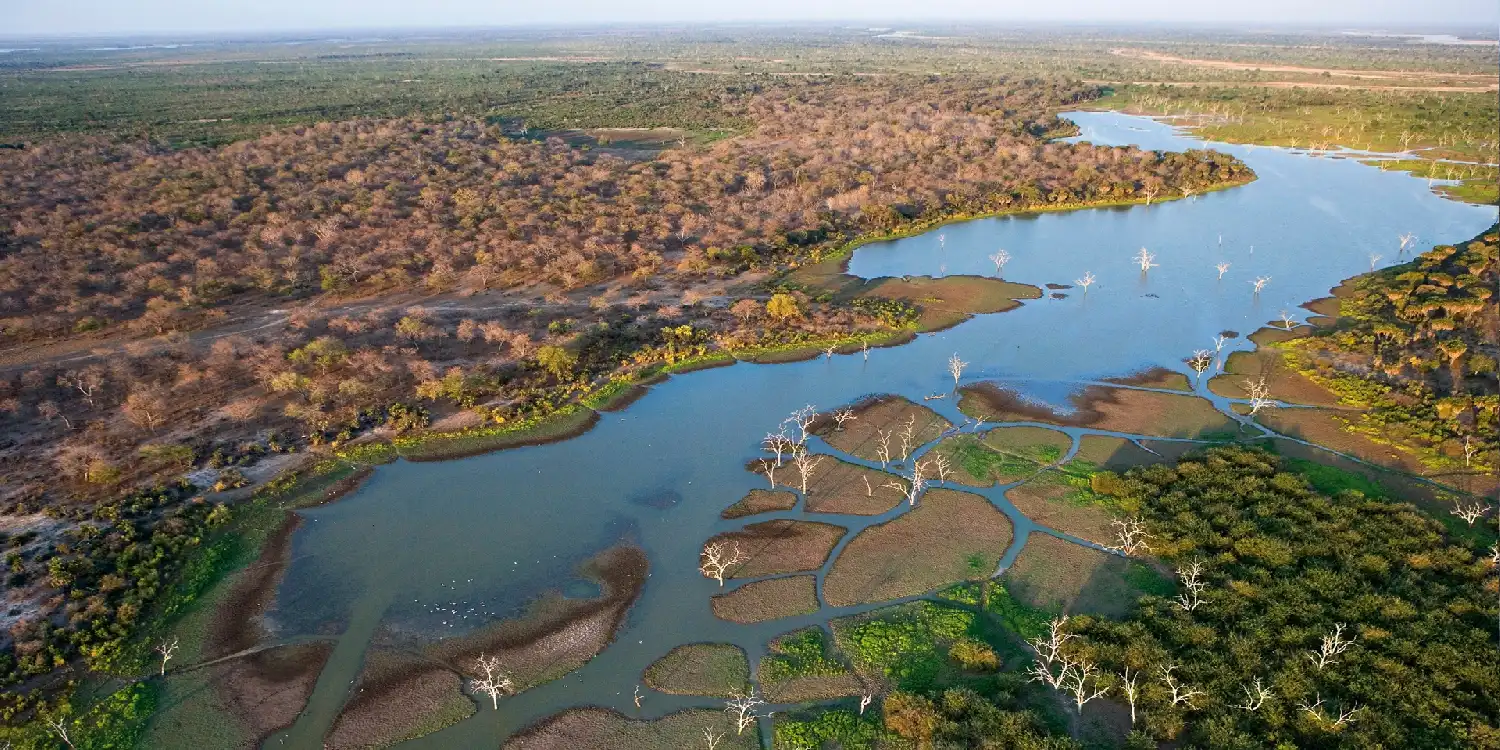
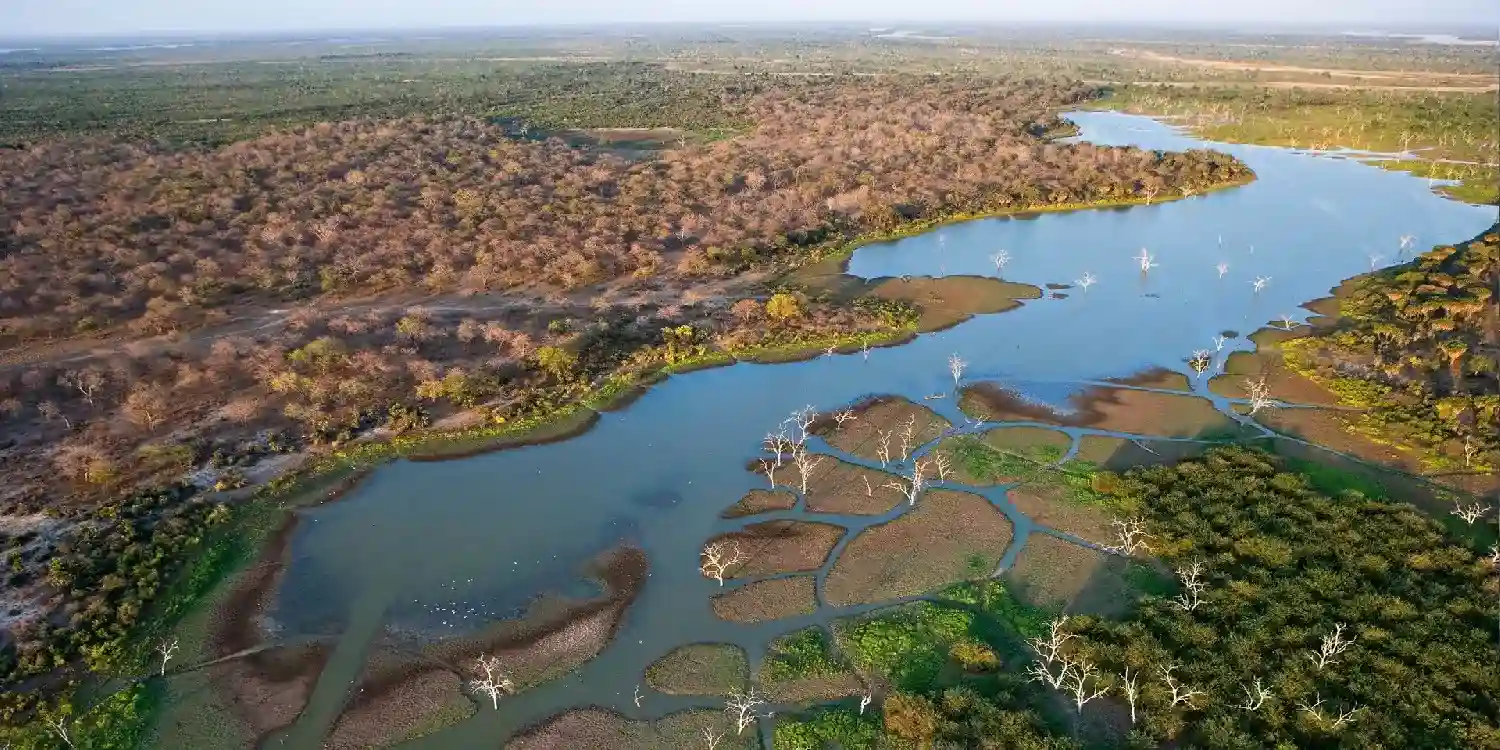
fixed errors

diff --git a/styles/place.css b/styles/place.css
@@ -1,6 +1,15 @@
-/* Google Font */
+/*root*/
+:root {
+    --heading-font: "Advent Pro", sans-serif;
+    --body-font: "Noto Sans", sans-serif;
+    --heading-background: #140751;
+    --card-shadow: 0 4px 10px rgba(0, 0, 0, 0.2);
+    --border-radius: 10px;
+}
+
+/* body */
 body {
-    font-family: "Noto Sans", sans-serif;
+    font-family: var(--body-font);
     margin: 0;
     background: #f4f4f4;
     color: #222;
@@ -8,7 +17,7 @@ body {
 
 /* Header */
 header {
-    background: #140751;
+    background: var(--heading-background);
     color: #fff;
     text-align: center;
     padding: 1.5rem;
@@ -51,8 +60,8 @@ main {
 
 .data-card h2,
 .weather-card h2 {
-    background-color: #020237;
-    font-family: "Noto", sans-serif;
+    font-family: var(--heading-font);
+    background-color: var(--heading-background);
     text-align: center;
     margin-top: 0;
     color: #ffff;
@@ -87,7 +96,7 @@ dd {
 /* Footer */
 
 footer {
-    background: #140751;
+    background: var(--heading-background);
     color: rgb(233, 233, 236);
     text-align: center;
     padding: 1rem;

diff --git a/place.html b/place.html
@@ -3,9 +3,9 @@
 <head>
     <meta charset="UTF-8">
     <meta name="viewport" content="width=device-width, initial-scale=1.0">
-    <title>Country Page | WDD 131 - Dynamic Web Fundamentals</title>
+    <title>Okavango Delta | WDD 131 - Dynamic Web Fundamentals</title>
     <meta name="author" content="Gorata Maetso">
-    <meta name="description" content="This is the page for a country I have lived in and a place in the country that I wish to visit.">
+    <meta name="description" content="This page for the Okavango Delta, a vast inland river delta in northern Botswana. It's a lush animal habitat known for its sprawling grassy plains.">
     <link rel="preconnect" href="https://fonts.googleapis.com">
     <link rel="preconnect" href="https://fonts.gstatic.com" crossorigin>
     <link rel="stylesheet" href="https://fonts.googleapis.com/css2?family=Advent+Pro:ital,wght@0,100..900;1,100..900&amp;family=Noto+Sans:ital,wght@0,100..900;1,100..900&amp;display=swap">
@@ -43,7 +43,7 @@
             
         </section>
         <section class="weather-card">
-            <h2>Weather</h3>
+            <h2>Weather</h2>
             <img src="images/clear-day.svg" alt="Clear day icon">
             <dl>
                 <dt>Temperature:</dt>